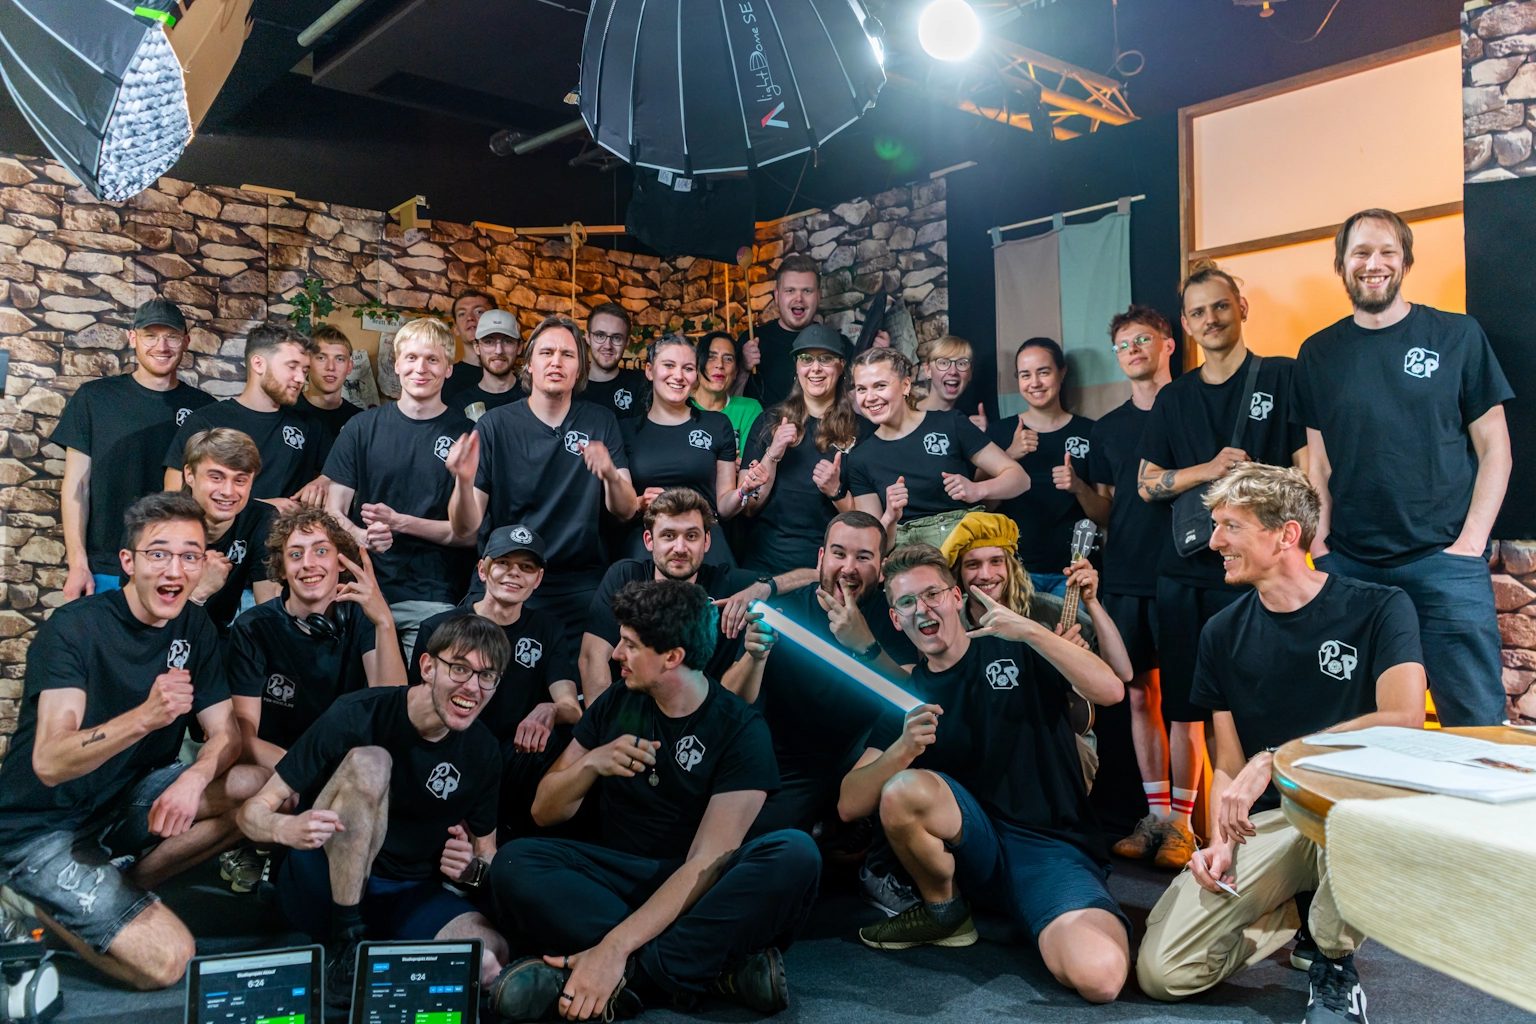
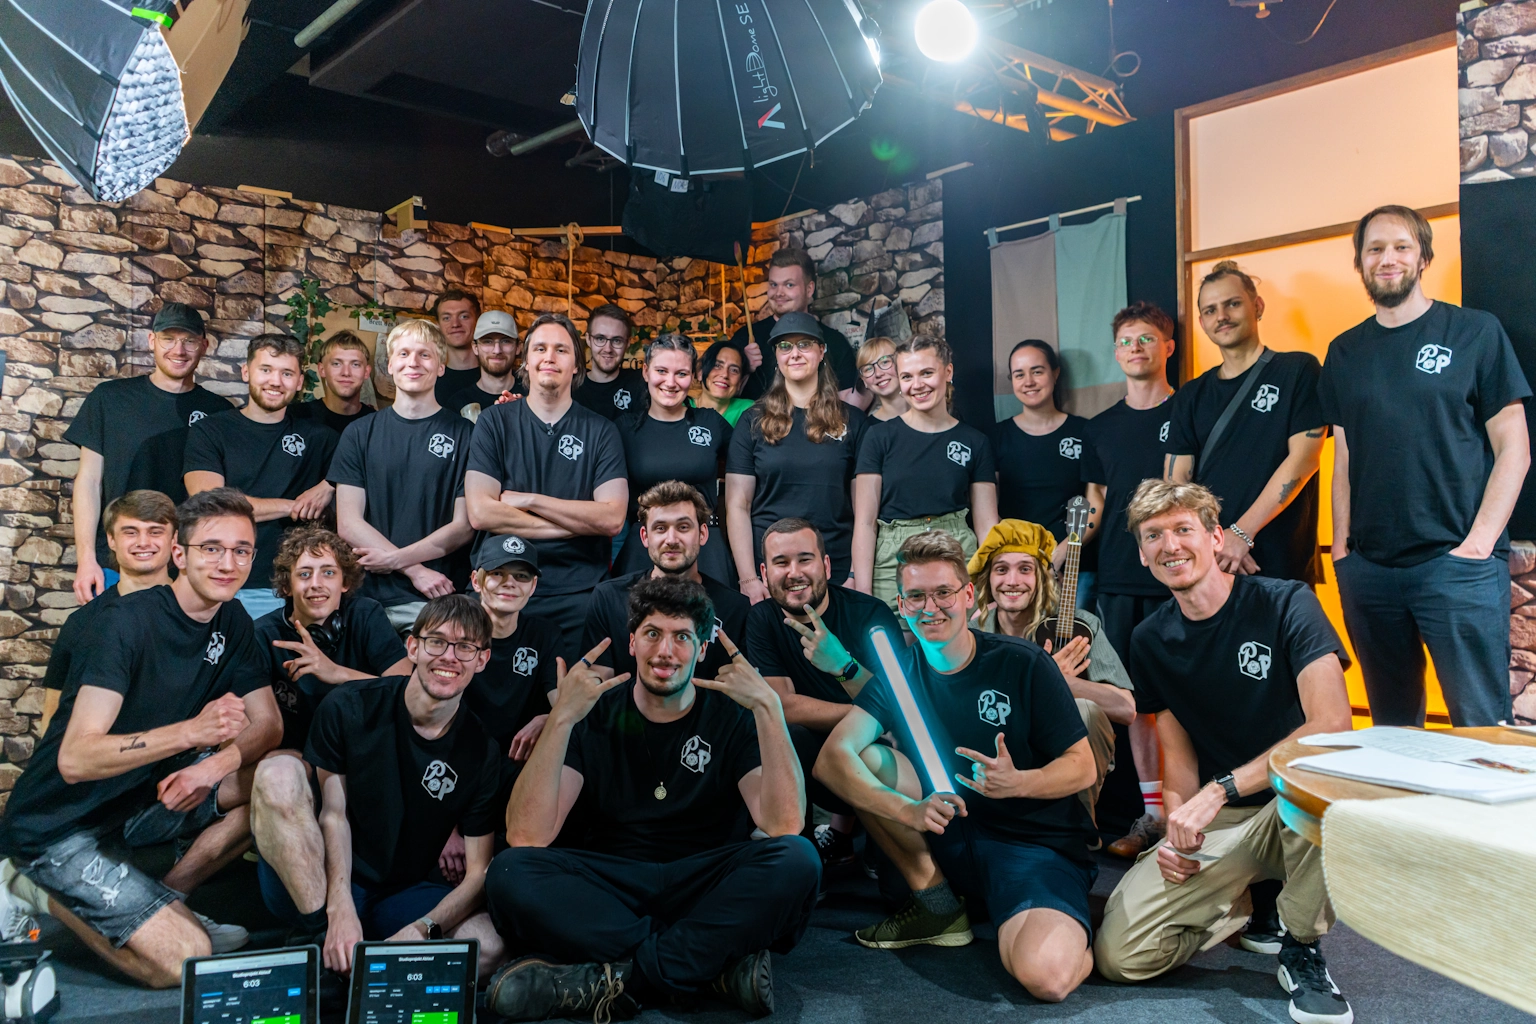
Gruppenbild geändert

diff --git a/pages/sendung/bts.md b/pages/sendung/bts.md
@@ -29,8 +29,6 @@ const data = {
 
 ![Gruppenbild](/images/gruppenbild.webp)
 
-## Outtakes
-
 ## Tag 1
 
 <Gallery :items="data['day1']" />
